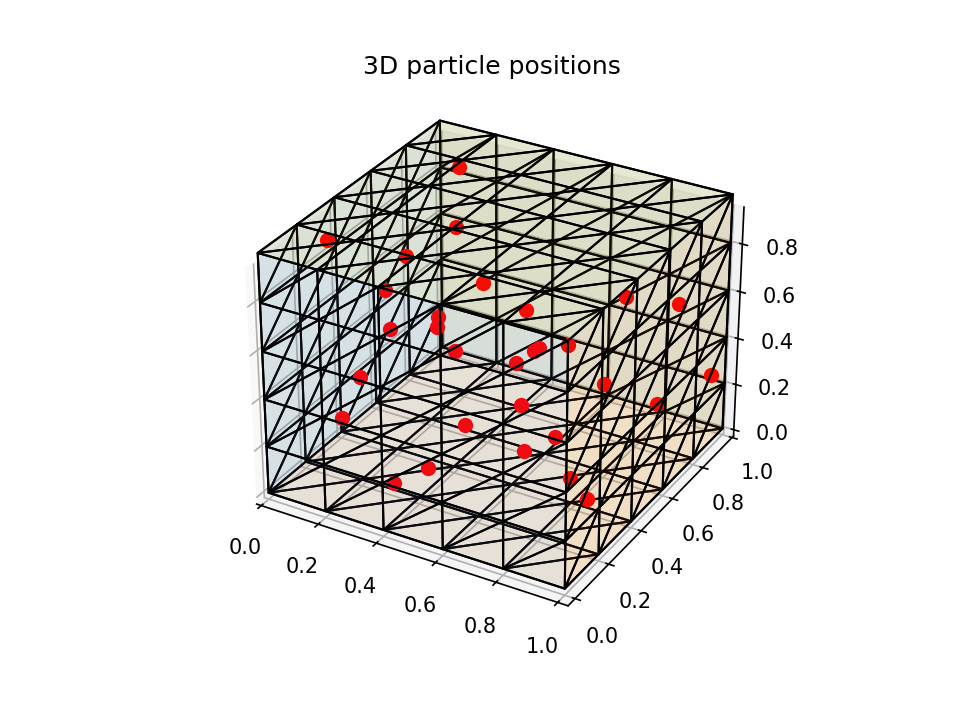
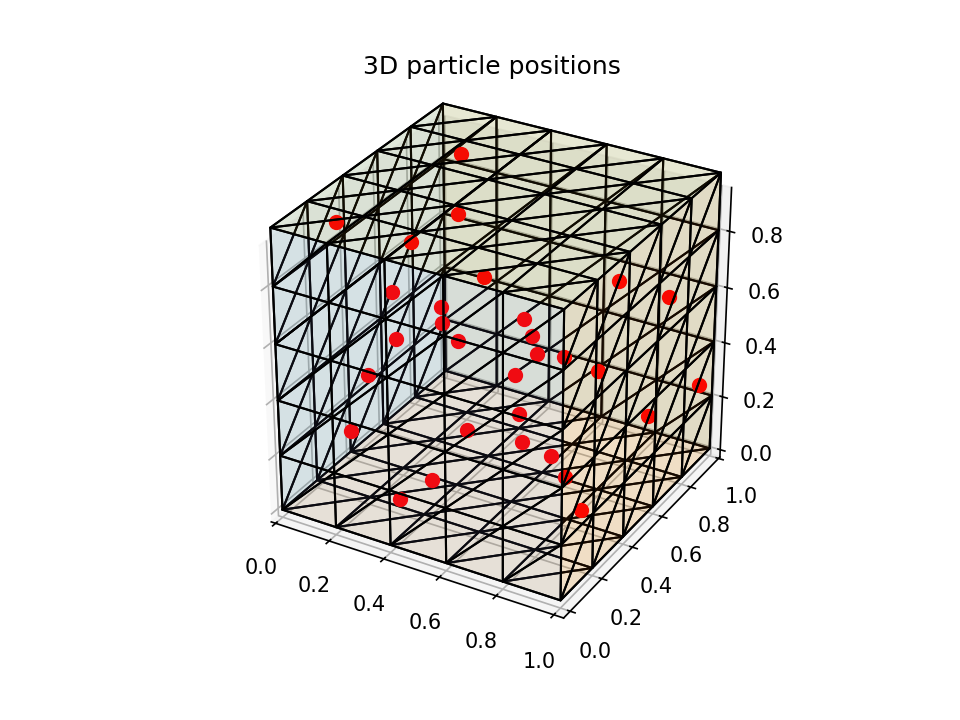
added poinplot demo for quiver

Changed region(s): [[0.25, 0.1222, 0.8438, 0.9167]]

diff --git a/demo_pointplot.py b/demo_pointplot.py
@@ -2,7 +2,7 @@ import os
 import numpy as np
 import matplotlib.pyplot as plt
 from firedrake import *
-from firedrake.pyplot import triplot, pointplot
+from firedrake.pyplot import triplot, pointplot, quiver_vom
 
 os.makedirs("pointplot_output", exist_ok=True)
 np.random.seed(42)
@@ -32,7 +32,7 @@ triplot(mesh, axes=axes)
 sc = pointplot(vom, function=f, axes=axes, cmap="plasma")
 fig.colorbar(sc, ax=axes, label="x-coordinate")
 axes.set_aspect("equal")
-axes.set_title("Particles coloured by scalar field")
+axes.set_title("Particles coloured by a scalar field")
 plt.savefig("pointplot_output/demo_2_scalar_field.png", dpi=150)
 plt.close(fig)
 
@@ -62,6 +62,24 @@ axes = fig.add_subplot(111, projection='3d')
 triplot(mesh_3d, axes=axes, interior_kw={'alpha': 0.05}, boundary_kw={'alpha': 0.1})
 pointplot(vom_3d, axes=axes, s=40, depthshade=False)
 axes.set_title("3D particle positions")
+axes.set_aspect("equal")
 plt.savefig("pointplot_output/demo_4_3d.png", dpi=150)
+plt.close(fig)
+
+# 5. Plot a vector field on particles
+mesh = UnitSquareMesh(10, 10)
+coords = np.random.rand(20, 2)
+vom = VertexOnlyMesh(mesh, coords)
+
+V_vec = VectorFunctionSpace(vom, "DG", 0, dim=2)
+v = Function(V_vec)
+v.dat.data_wo[:] = vom.coordinates.dat.data_ro - 0.5 # point away from the centre at (0.5, 0.5)
+
+fig, axes = plt.subplots()
+triplot(mesh, axes=axes)
+pointplot(vom, axes=axes)
+quiver_vom(v, axes=axes)
+axes.set_title("Particles with a vector field")
+plt.savefig("pointplot_output/demo_5_vector_field.png", dpi=150)
 plt.close(fig)
 